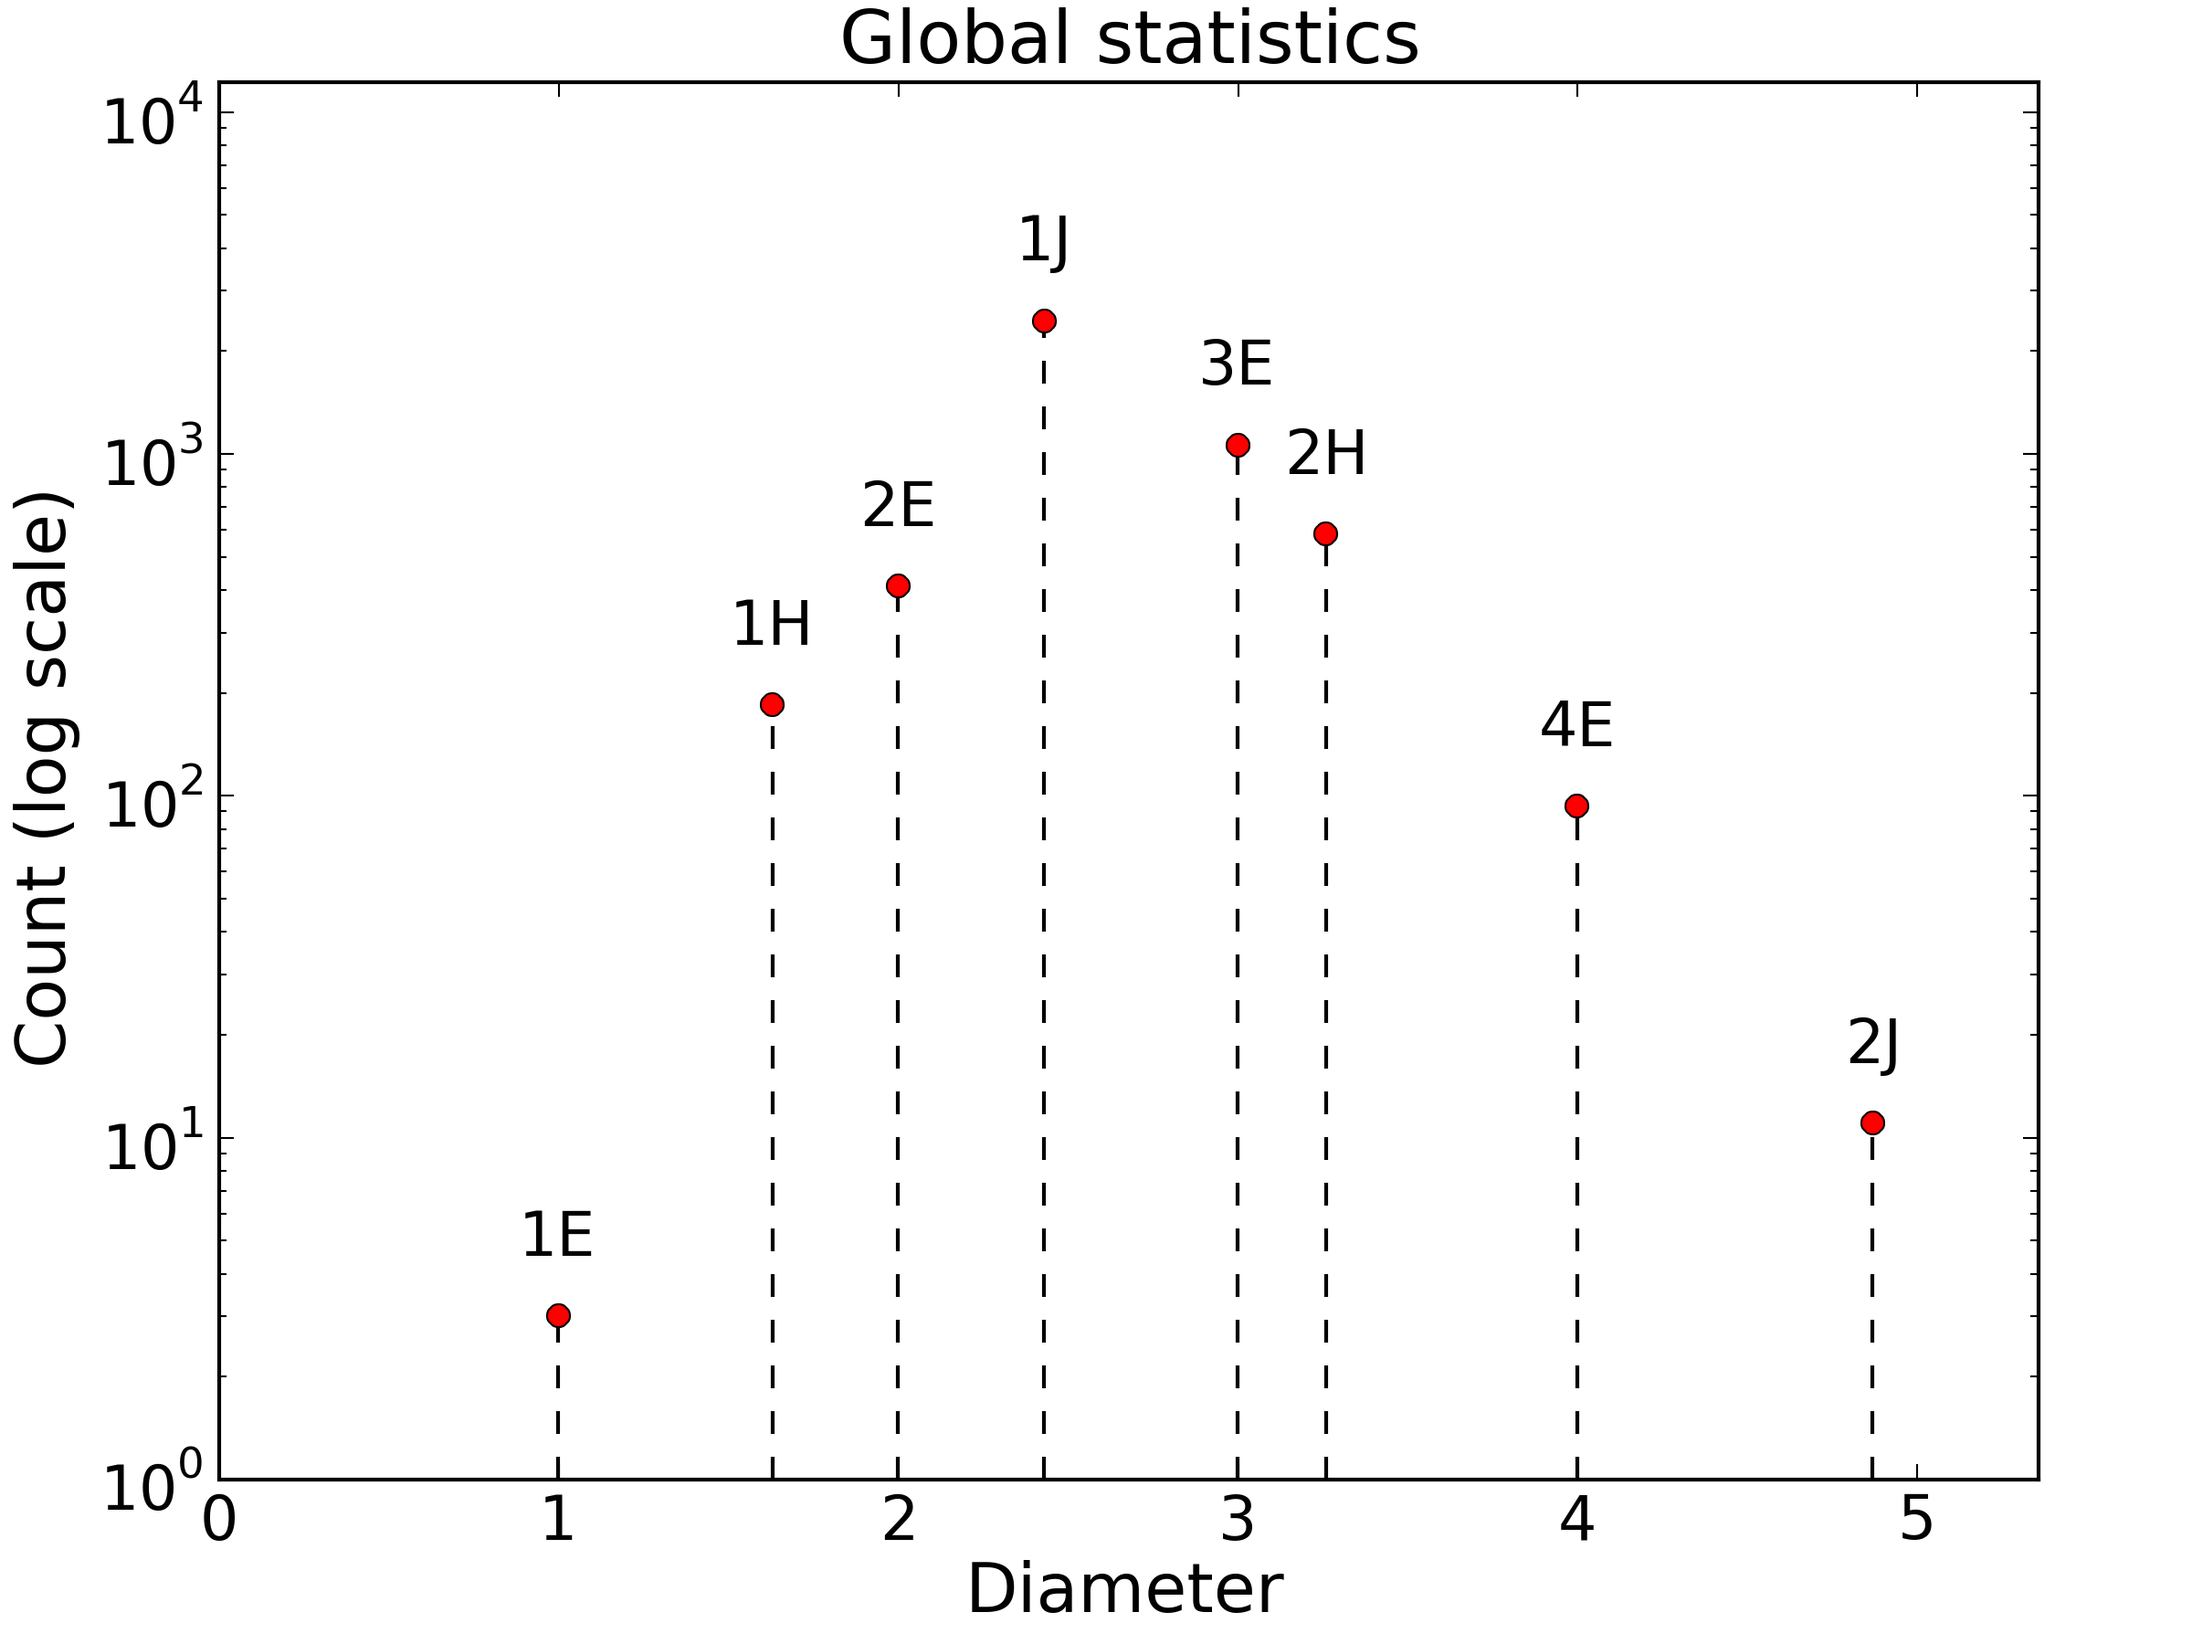
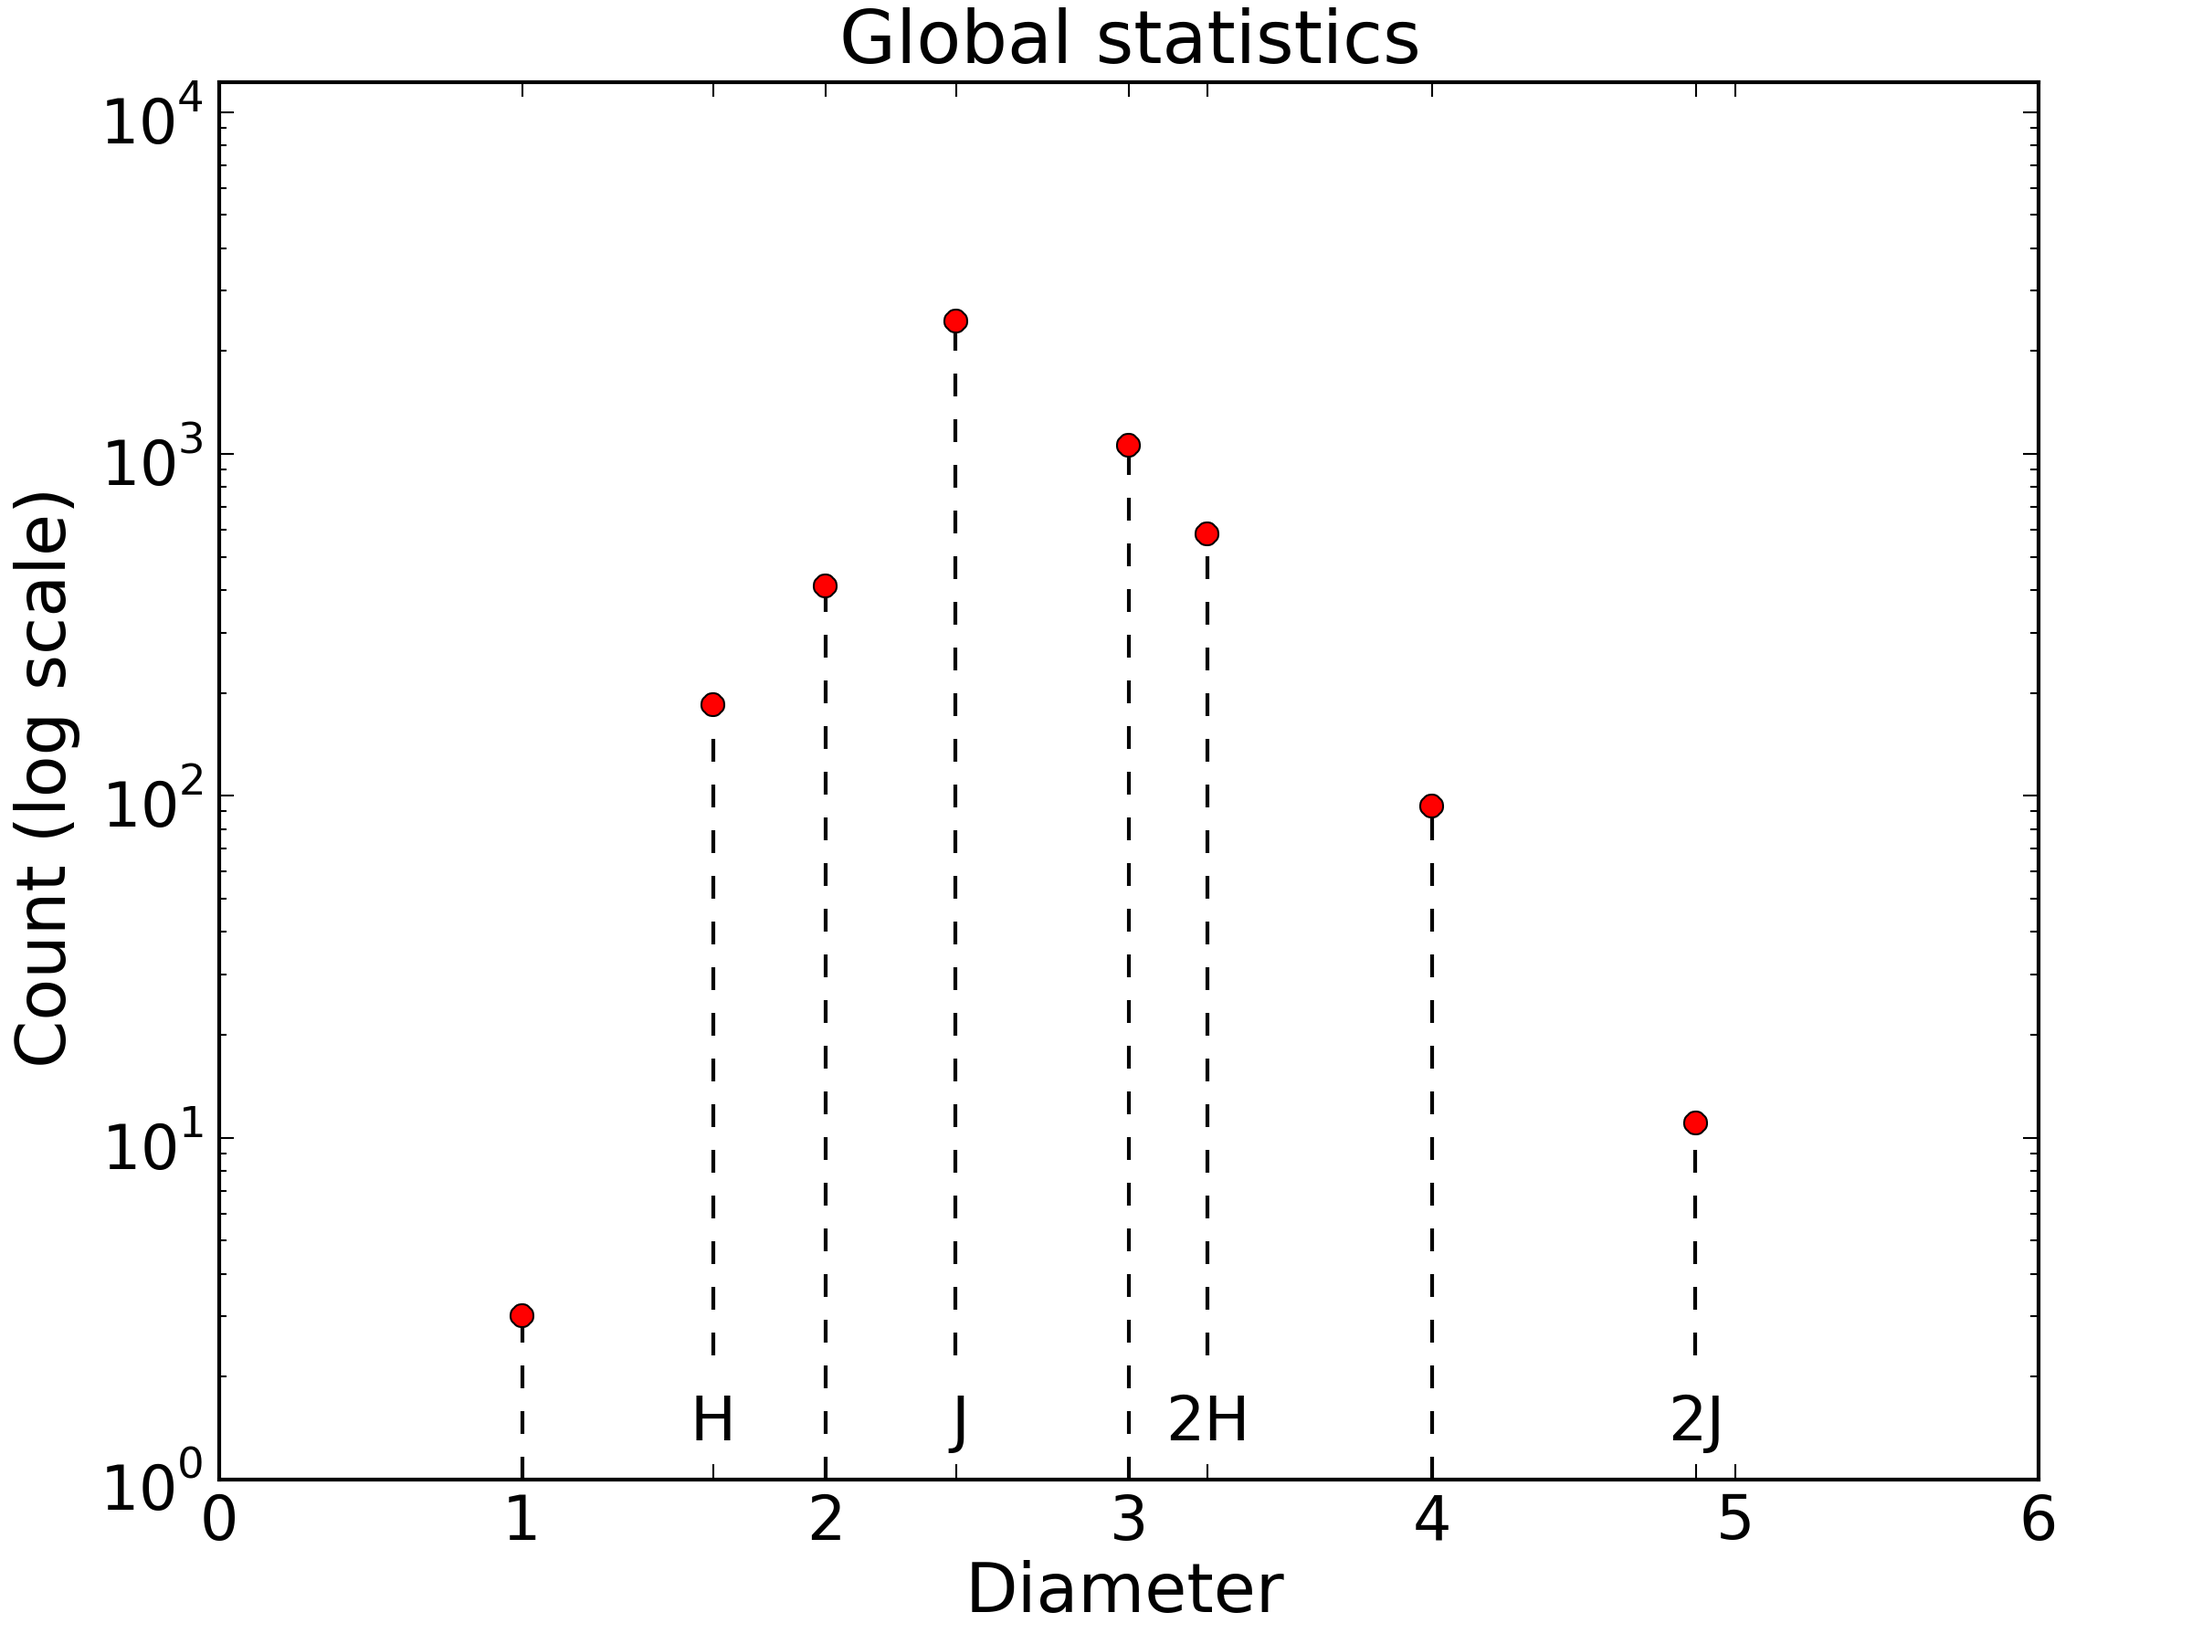
updated graphs per TO DOs

diff --git a/split_plot.py b/split_plot.py
@@ -27,7 +27,7 @@ fig_size=(csize,csize*1.618)
 
 fig = pylab.figure()
 
-fig.subplots_adjust(top=0.95,bottom=0.1,left=0.10,right=0.93,hspace=0.35,wspace=0.2)
+fig.subplots_adjust(top=0.95,bottom=0.10,left=0.10,right=0.93,hspace=0.35,wspace=0.2)
 
 # this is plot 1 with Procut orange data
 
@@ -37,40 +37,49 @@ ax = fig.add_subplot(1,1,1)
 diameters = [ 1, 1.63, 2, 2.43, 3, 3.26, 4, 4.87 ]
 steps =[ '1', 'H', '2', 'J', '3', '2H', '4', '2J' ]
 counts = [ 3, 184, 409, 2445, 1060, 582, 93, 11 ] 
+types = [ '$S^{3}/Q$',  '$L(4,1)$' ,'$L(3,1)$' ,'$RP^{3}$' ,'$S^{3}$' ]
+markers = ['rs','ws','bx','ks','gs']
 
-diameters1= [ 1, 2, 3, 4, ]
-counts1= [ 3, 409, 1060, 93 ] 
+countd = {}
+countd[ '$S^{3}/Q$'] = [ 0, 1, 0, 0, 0, 0, 0, 0 ]
+countd[ '$L(4,1)$' ] = [ 0, 0, 0, 1, 0, 0, 0, 0 ]
+countd[ '$L(3,1)$' ] = [ 0, 0, 1, 1, 0, 0, 0, 0 ]
+countd[ '$RP^{3}$' ] = [ 0,10, 7, 5, 0, 0, 0, 0 ]
+countd[ '$S^{3}$'  ]  = [ 3, 173, 401, 2438, 1060, 582, 93, 11 ]
 
-diameters2 = [ 1.63, 2.43, 3.26, 4.87 ]
-steps2 =[ 'H', 'J', '2H', '2J' ]
-counts2 = [ 184, 2445, 582, 11 ] 
+#$1$ &  &  &  &   &3    & 3    \\
+#$2$ & 1&  &1 &17 &574  & 593  \\
+#$3$ &  &1 &1 &5  &3498 & 3505 \\
+#$4$ &  &  &  &   &675  & 675   \\
+#$5$ &  &  &  &   &11   & 11   \\
+#Total&1 &1 &2 &22   &4761   &4787  \\
+
+
+
 
 #ax.plot(diameters,counts,'k--',alpha=0.5)
-for d,c in zip(diameters1,counts1):
-    ax.plot([d,d],[1,c],'k--')
+for t,m in zip(types,markers):
+    ax.semilogy(diameters,countd[t],m,ms=10,label=t,mew=1)
+    for d,c,s in zip(diameters,counts,steps):
+        ax.plot([d,d],[0.7,c],'k--')
+    #    ax.text(d,c*1.5, s,horizontalalignment='center')
 
-for d,c,s in zip(diameters2,counts2,steps2):
-    ax.plot([d,d],[2.3,c],'k--')
-    ax.text(d,1.3,s,horizontalalignment='center')
-
-ax.semilogy(diameters,counts,'ro')
 #rects1 = ax.bar(ind+width, procutMeans, width, color='r', yerr=procutStd)
 #rects1 = ax.bar(ind, procutMeans, width, color='r', yerr=procutStd)
 # add some
 ax.set_xlabel('Diameter')
-#ax.xaxis.set_label_coords(0.5, -0.12)
 ax.set_ylabel('Count (log scale)')
 ax.set_title('Global statistics')
-ax.set_xticks([0] + diameters + [5,6])
+ax.set_xticks(diameters)
 #ax.set_yticks(yt)
-ax.set_xticklabels( ['0','1','','2','','3','','4','','5','6'], horizontalalignment='center')
-a=ax.axis([0,6,1,numpy.max(counts)*5])
-
+ax.set_xticklabels( steps , horizontalalignment='center')
+ax.axis([0,numpy.max(diameters)*1.1,0.7,numpy.max(counts)*5])
+ax.legend(numpoints=1)
 
 
 #ax.legend( ('Procut Orange',), loc=1 ) #add trailing comma to make it a tuple so full word is printed
 
 
 
-pylab.savefig('./paper/figures/global_statistics.png', dpi=300)
+pylab.savefig('./paper/figures/split_statistics.png', dpi=300)
 pylab.show()

diff --git a/edge_plot.py b/edge_plot.py
@@ -34,36 +34,24 @@ fig.subplots_adjust(top=0.95,bottom=0.1,left=0.10,right=0.93,hspace=0.35,wspace=
 
 ax = fig.add_subplot(1,1,1)
 
-diameters = [ 1, 1.63, 2, 2.43, 3, 3.26, 4, 4.87 ]
-steps =[ '1', 'H', '2', 'J', '3', '2H', '4', '2J' ]
-counts = [ 3, 184, 409, 2445, 1060, 582, 93, 11 ] 
-
-diameters1= [ 1, 2, 3, 4, ]
-counts1= [ 3, 409, 1060, 93 ] 
-
-diameters2 = [ 1.63, 2.43, 3.26, 4.87 ]
-steps2 =[ 'H', 'J', '2H', '2J' ]
-counts2 = [ 184, 2445, 582, 11 ] 
+diameters = [ 1, 2, 3, 4, 5 ]
+counts = [ 3, 593,3505, 675, 11 ] 
 
 #ax.plot(diameters,counts,'k--',alpha=0.5)
-for d,c in zip(diameters1,counts1):
+for d,c in zip(diameters,counts):
     ax.plot([d,d],[1,c],'k--')
-
-for d,c,s in zip(diameters2,counts2,steps2):
-    ax.plot([d,d],[2.3,c],'k--')
-    ax.text(d,1.3,s,horizontalalignment='center')
 
 ax.semilogy(diameters,counts,'ro')
 #rects1 = ax.bar(ind+width, procutMeans, width, color='r', yerr=procutStd)
 #rects1 = ax.bar(ind, procutMeans, width, color='r', yerr=procutStd)
 # add some
-ax.set_xlabel('Diameter')
+ax.set_xlabel('Diameter with only Edges')
 #ax.xaxis.set_label_coords(0.5, -0.12)
 ax.set_ylabel('Count (log scale)')
 ax.set_title('Global statistics')
-ax.set_xticks([0] + diameters + [5,6])
+ax.set_xticks([0] + diameters + [6])
 #ax.set_yticks(yt)
-ax.set_xticklabels( ['0','1','','2','','3','','4','','5','6'], horizontalalignment='center')
+ax.set_xticklabels( ['0','1','2','3','4','5','6'], horizontalalignment='center')
 a=ax.axis([0,6,1,numpy.max(counts)*5])
 
 
@@ -72,5 +60,5 @@ a=ax.axis([0,6,1,numpy.max(counts)*5])
 
 
 
-pylab.savefig('./paper/figures/global_statistics.png', dpi=300)
+pylab.savefig('./paper/figures/edge_diameters.png', dpi=300)
 pylab.show()

diff --git a/paper/paper.tex b/paper/paper.tex
@@ -142,17 +142,26 @@ A small Python program was created to examine each manifold in the census and co
 \begin{figure}
     \begin{center}
     \includegraphics[width=0.6\linewidth]{figures/global_statistics.png}
-    \caption{Global statistics. TO DO: CHANGE DIAMETER LABELS TO $1, H, 2, J, 3, 2H, 4, 2J$ AND PUT THESE ON HORIZONTAL AXIS. TO DO: CHANGE GRAPH TO SHOW SEPARATE DATA POINTS FOR EACH TOPOLOGICAL TYPE. TO DO: CREATE ANOTHER GRAPH WITH JUST EDGE DIAMETER COUNTS}
     \end{center}
-    \caption{TO DO: ADD CAPTION}
+    \caption{Distribution of diameters.}
     \label{fig:global_statistics}
 \end{figure}
 
 \begin{figure}
     \begin{center}
-    \includegraphics[width=0.6\linewidth]{figures/global_statistics.png}
+    \includegraphics[width=0.6\linewidth]{figures/split_statistics.png}
     \end{center}
-    \caption{TO DO: ADD CAPTION}
+    \caption{Distribution of diameters for each type.}
+    \label{fig:type_statistics}
+\end{figure}
+
+
+
+\begin{figure}
+    \begin{center}
+    \includegraphics[width=0.6\linewidth]{figures/edge_diameters.png}
+    \end{center}
+    \caption{Distribution of diameters when only edges are considered, without hops or jumps.}
     \label{fig:global_statistics_edges}
 \end{figure}
 
